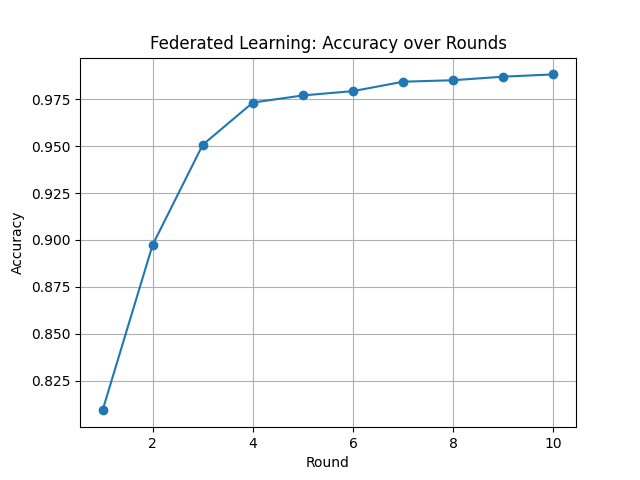
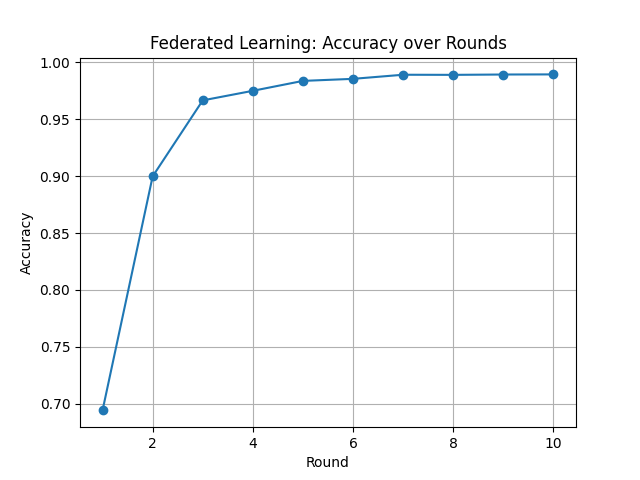
Fixes code

diff --git a/app.py b/app.py
@@ -1,4 +1,4 @@
-# app.py
+# app_clean.py
 import torch
 from torch.utils.data import DataLoader, Subset
 import flwr as fl
@@ -10,8 +10,22 @@ from utils import load_data, partition_data
 from client import FlowerClient
 
 DEVICE = torch.device("cuda" if torch.cuda.is_available() else "cpu")
+
+# Centralized evaluation after each round
+def evaluate_global_model(model, test_loader):
+    model.eval()
+    loss, correct = 0.0, 0
+    with torch.no_grad():
+        for x, y in test_loader:
+            x, y = x.to(DEVICE), y.to(DEVICE)
+            pred = model(x)
+            loss += torch.nn.functional.cross_entropy(pred, y, reduction="sum").item()
+            correct += (pred.argmax(1) == y).sum().item()
+    accuracy = correct / len(test_loader.dataset)
+    return accuracy
+
 train_dataset, test_dataset = load_data()
-partitions = partition_data(train_dataset, num_clients=5)
+partitions = partition_data(train_dataset, num_clients=10)
 
 def client_fn(cid: str):
     model = Net()
@@ -26,27 +40,39 @@ if __name__ == "__main__":
 
     start_time = time.time()
 
-    # Custom strategy to capture metrics
-    class SaveMetricsStrategy(fl.server.strategy.FedAvg):
+    global_model = Net().to(DEVICE)
+    test_loader = DataLoader(test_dataset, batch_size=64)
+
+    class CentralizedEvalStrategy(fl.server.strategy.FedAvg):
         def __init__(self):
             super().__init__()
-            self.accuracy_history = []
+            self.global_model = global_model
+            self.history = []
+        
+        def aggregate_fit(self, rnd, results, failures):
+            aggregated_result = super().aggregate_fit(rnd, results, failures)
 
-        def aggregate_evaluate(self, rnd, results, failures):
-            aggregated_result = super().aggregate_evaluate(rnd, results, failures)
-            if results:
-                accuracies = [r.metrics["accuracy"] for _, r in results if "accuracy" in r.metrics]
-                if accuracies:
-                    avg_acc = sum(accuracies) / len(accuracies)
-                    self.accuracy_history.append((rnd, avg_acc))
-                    print(f"📈 [Round {rnd}] Average Accuracy: {avg_acc * 100:.2f}%")
+            if aggregated_result is not None:
+                parameters_aggregated, _ = aggregated_result  # ✅ unpack tuple (parameters, metrics)
+
+                # ✅ Apply new aggregated parameters to the global model
+                params_ndarrays = fl.common.parameters_to_ndarrays(parameters_aggregated)
+                params_dict = zip(self.global_model.state_dict().keys(), params_ndarrays)
+                state_dict = {k: torch.tensor(v) for k, v in params_dict}
+                self.global_model.load_state_dict(state_dict, strict=True)
+
+            print(f"\n🧹 [Round {rnd}] Aggregating and Evaluating on Full Test Set...")
+            acc = evaluate_global_model(self.global_model, test_loader)
+            print(f"📈 [Round {rnd}] Global Test Accuracy: {acc*100:.2f}%")
+            self.history.append((rnd, acc))
+
             return aggregated_result
 
-    strategy = SaveMetricsStrategy()
+    strategy = CentralizedEvalStrategy()
 
-    history = fl.simulation.start_simulation(
+    fl.simulation.start_simulation(
         client_fn=client_fn,
-        num_clients=5,
+        num_clients=10,
         config=fl.server.ServerConfig(num_rounds=10),
         strategy=strategy,
     )
@@ -54,49 +80,22 @@ if __name__ == "__main__":
     end_time = time.time()
     print(f"\n⏱ Simulation completed in {end_time - start_time:.2f} seconds.")
 
-    # Save per-round results to CSV
-    with open("round_accuracy_results.csv", "w", newline="") as csvfile:
-        writer = csv.writer(csvfile)
+    # Save results
+    with open("round_centralized_accuracy.csv", "w", newline="") as f:
+        writer = csv.writer(f)
         writer.writerow(["Round", "Accuracy"])
-        for round_num, acc in strategy.accuracy_history:
-            writer.writerow([round_num, acc])
+        writer.writerows(strategy.history)
 
-    print("\n📁 Saved round-wise accuracies to 'round_accuracy_results.csv'.")
+    # Plot results
+    rounds = [r for r, _ in strategy.history]
+    accuracies = [a for _, a in strategy.history]
 
-    # Plot Accuracy over Rounds
-    if strategy.accuracy_history:
-        rounds = [r for r, _ in strategy.accuracy_history]
-        accuracies = [a for _, a in strategy.accuracy_history]
+    plt.plot(rounds, accuracies, marker="o")
+    plt.title("Global Accuracy over Rounds (Centralized Evaluation)")
+    plt.xlabel("Round")
+    plt.ylabel("Accuracy")
+    plt.grid(True)
+    plt.savefig("global_accuracy_over_rounds.png")
+    # plt.show()
 
-        plt.plot(rounds, accuracies, marker="o")
-        plt.title("Federated Learning: Accuracy over Rounds")
-        plt.xlabel("Round")
-        plt.ylabel("Accuracy")
-        plt.grid(True)
-        plt.savefig("accuracy_over_rounds.png")
-        print("\n📈 Saved plot to 'accuracy_over_rounds.png'.")
-    else:
-        print("⚠ No round-wise accuracy data available to plot.")
-
-    # Evaluate final model centrally (optional: after aggregation)
-    print("\n📊 Evaluating final model centrally on test data...")
-    model = Net().to(DEVICE)
-    test_loader = DataLoader(test_dataset, batch_size=64)
-
-    model.eval()
-    loss, correct = 0.0, 0
-    with torch.no_grad():
-        for x, y in test_loader:
-            x, y = x.to(DEVICE), y.to(DEVICE)
-            pred = model(x)
-            loss += torch.nn.functional.cross_entropy(pred, y, reduction="sum").item()
-            correct += (pred.argmax(1) == y).sum().item()
-
-    final_accuracy = correct / len(test_loader.dataset)
-    print(f"\n✅ Final global test accuracy: {final_accuracy * 100:.2f}%")
-
-    with open("results_summary.txt", "w") as f:
-        f.write(f"Final Accuracy: {final_accuracy * 100:.2f}%\n")
-        f.write(f"Training Time: {end_time - start_time:.2f} seconds\n")
-
-    print("\n📁 Summary saved to 'results_summary.txt'.")
+    print("\n✅ Results saved successfully!")

diff --git a/utils.py b/utils.py
@@ -1,7 +1,6 @@
-# utils.py
-import numpy as np
+# utils_clean.py
 from torchvision import datasets, transforms
-from torch.utils.data import Subset
+import numpy as np
 
 def load_data():
     transform = transforms.Compose([
@@ -12,24 +11,35 @@ def load_data():
     test = datasets.MNIST(root="./data", train=False, download=True, transform=transform)
     return train, test
 
-def partition_data(train_dataset, num_clients):
+def partition_data(train_dataset, num_clients, non_iid=True):
+    data_per_client = len(train_dataset) // num_clients
     labels = np.array(train_dataset.targets)
+
+    if not non_iid:
+        # IID
+        all_indices = np.arange(len(train_dataset))
+        np.random.shuffle(all_indices)
+        return [
+            all_indices[i * data_per_client : (i + 1) * data_per_client]
+            for i in range(num_clients)
+        ]
+
+    # Balanced Non-IID Partition
     idx_by_label = {i: np.where(labels == i)[0].tolist() for i in range(10)}
-    samples_per_client = len(train_dataset) // num_clients
     client_indices = []
 
     for _ in range(num_clients):
-        selected = []
-        chosen_labels = np.random.choice(range(10), 7, replace=False)  # 7 labels per client
+        chosen_labels = np.random.choice(range(10), 8, replace=False)
+        selected_indices = []
         for label in chosen_labels:
             available = idx_by_label[label]
-            n_samples = min(samples_per_client // 7, len(available))
-            if n_samples > 0:
-                sampled = np.random.choice(available, n_samples, replace=False)
-                selected.extend(sampled)
+            sample_size = min(data_per_client // 8, len(available))
+            if sample_size > 0:
+                sampled = np.random.choice(available, sample_size, replace=False)
+                selected_indices.extend(sampled)
                 idx_by_label[label] = list(set(available) - set(sampled))
-        if len(selected) == 0:
-            selected = np.random.choice(np.arange(len(train_dataset)), samples_per_client, replace=False)
-        client_indices.append(np.array(selected))
-
+        if len(selected_indices) == 0:
+            fallback = np.arange(len(train_dataset))
+            selected_indices = np.random.choice(fallback, data_per_client, replace=False)
+        client_indices.append(np.array(selected_indices))
     return client_indices

diff --git a/client.py b/client.py
@@ -1,9 +1,8 @@
-# client.py
+# client_clean.py
 import flwr as fl
 import torch
 import torch.nn as nn
 import torch.optim as optim
-from torch.utils.data import DataLoader
 from model import Net
 
 class FlowerClient(fl.client.NumPyClient):
@@ -26,7 +25,7 @@ class FlowerClient(fl.client.NumPyClient):
         self.set_parameters(parameters)
         self.model.train()
         optimizer = optim.SGD(self.model.parameters(), lr=0.05, momentum=0.9)
-        for _ in range(5):  # 🔥 5 local epochs
+        for _ in range(3):
             for x, y in self.train_loader:
                 x, y = x.to(self.device), y.to(self.device)
                 optimizer.zero_grad()
@@ -45,6 +44,5 @@ class FlowerClient(fl.client.NumPyClient):
                 pred = self.model(x)
                 loss += nn.CrossEntropyLoss()(pred, y).item()
                 correct += (pred.argmax(1) == y).sum().item()
-
         accuracy = correct / len(self.test_loader.dataset)
         return float(loss), len(self.test_loader.dataset), {"accuracy": accuracy}
